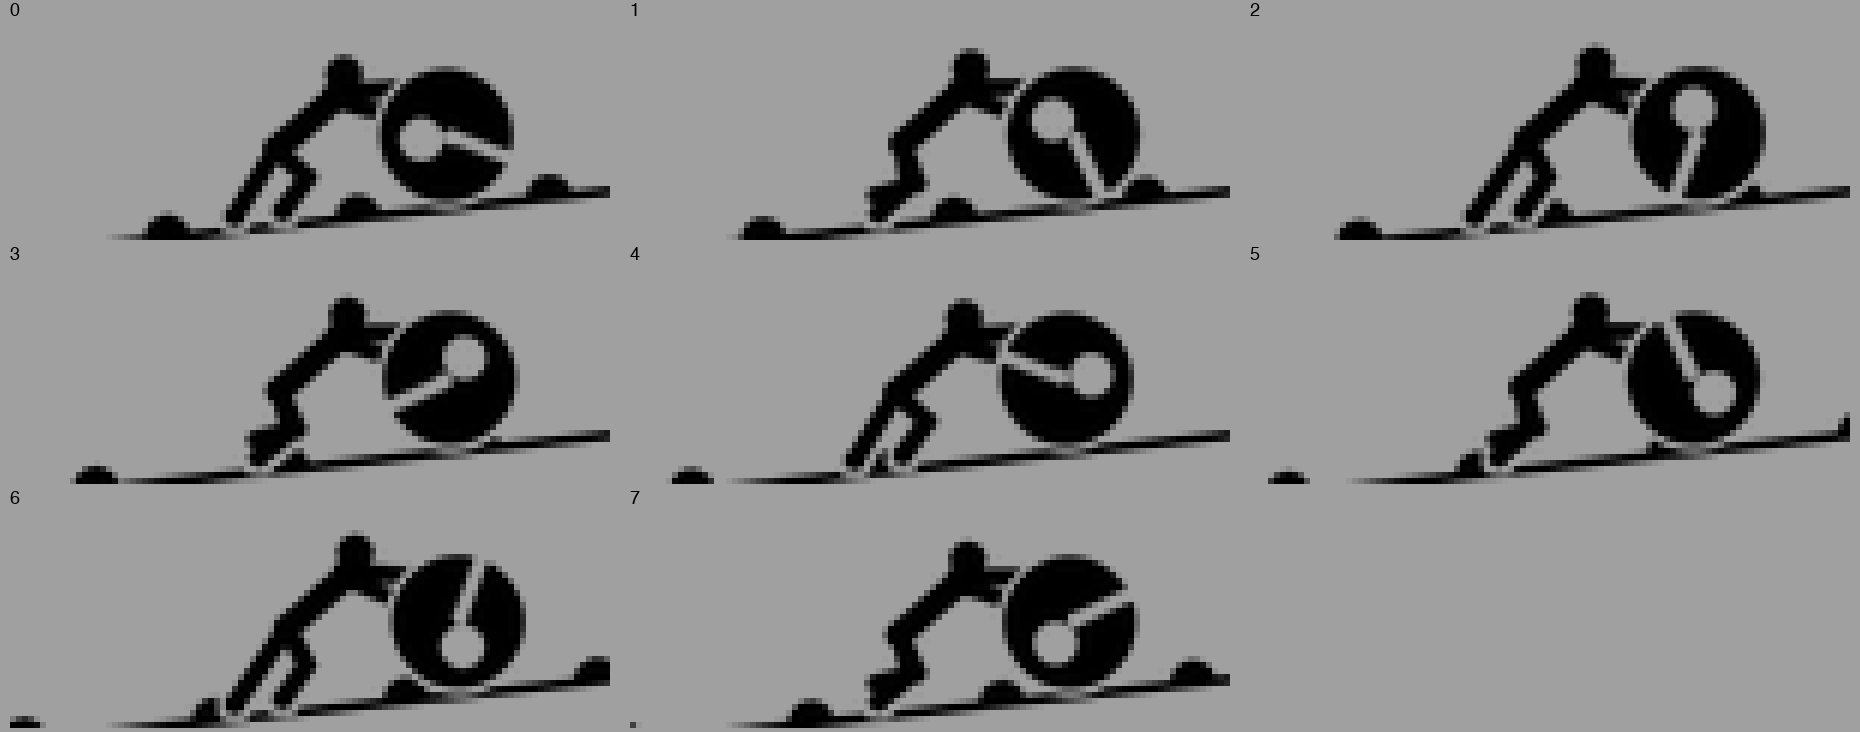
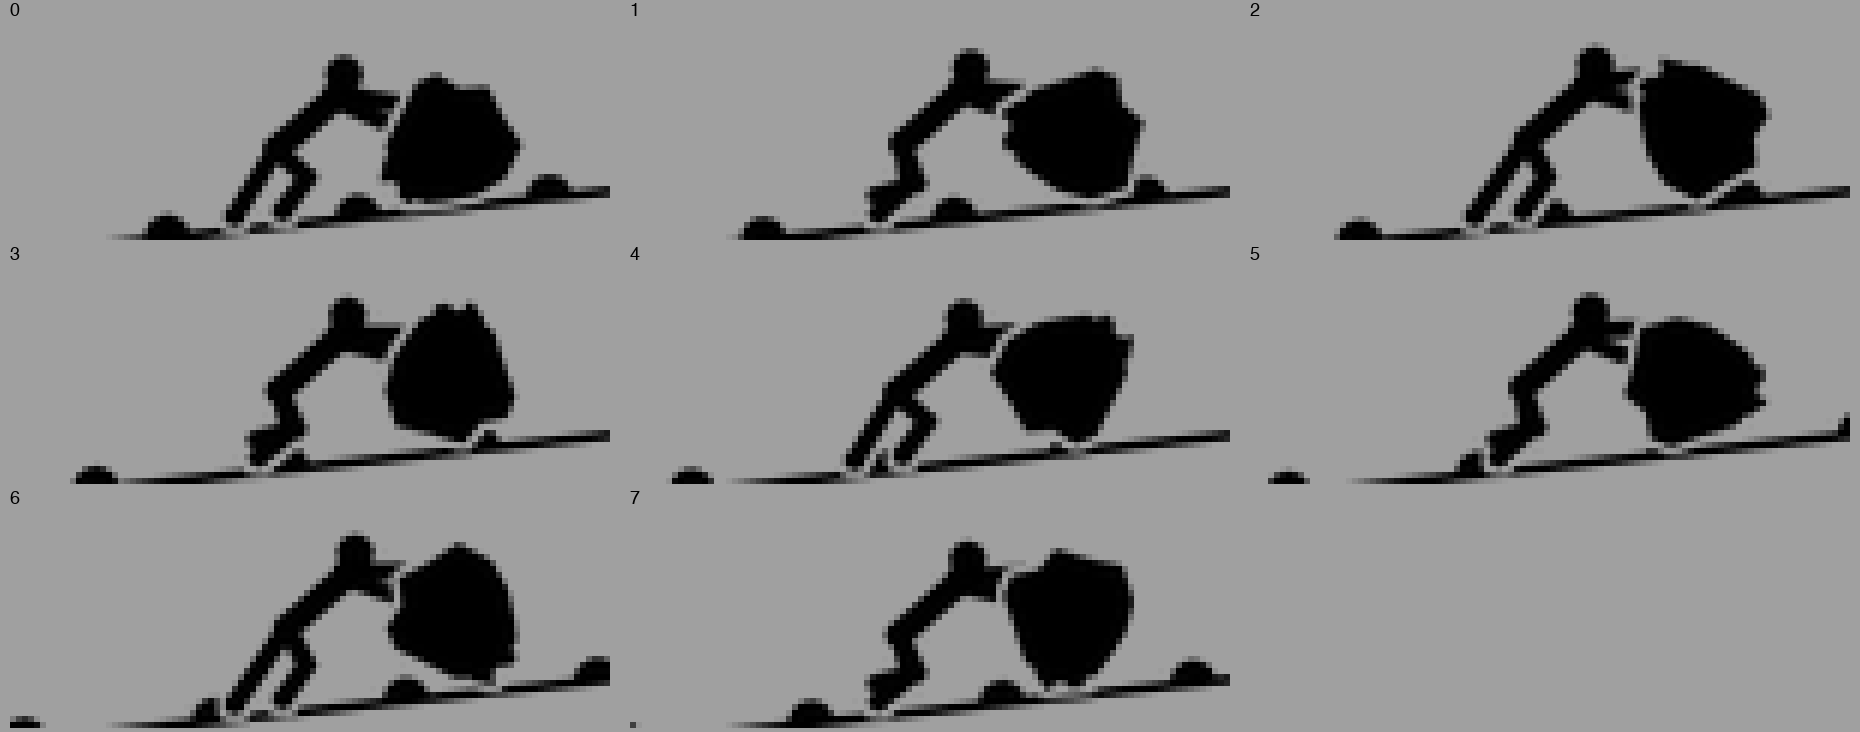
feat: Sisyphus-endless boulder as a lumpy chipped rock

diff --git a/scratchpad/sisyphus/gen.py b/scratchpad/sisyphus/gen.py
@@ -324,7 +324,7 @@ def frame_circus(i, rx, fx, mode, ry):
 # ---- sisyphus-endless: bold close-up push loop, drawn to survive a ~18 pt menu bar ----
 # Everything is drawn in slope coordinates (s along the slope, n up from it) and rotated onto
 # the canvas by W(). A thin ground line scrolls down-slope GS px per frame past a few large
-# pebbles; the boulder carries one thick asymmetric crack and turns 45 deg per frame (a full
+# pebbles; the boulder is a lumpy chipped rock that turns 45 deg per frame (a full
 # turn over the loop); the man's two legs alternate every 4 frames while boulder and body
 # surge forward and slip back (ESURGE), so 8 frames = 2 strides = 2 surges = 1 boulder turn
 # = 1 pebble period.
@@ -363,97 +363,41 @@ def sis_man(d, i, sc, hip, shd, head):
             line(d, hip, knee, 3.2); line(d, knee, foot, 3.2)
     d.ellipse([P(head[0] - 3.0, head[1] - 3.0), P(head[0] + 3.0, head[1] + 3.0)], fill=255)
 
-def frame_endless(i):
-    Wd, Ht = 100 * K, 36 * K
-    sc = GS * i
-    sg = ESURGE[i % 4]
-    cxy = W(sg, ER + 0.75 + 0.4)   # boulder centre: just above the line, surges with the push
-    rh = ER + EGAP
-    # ground: thin line + large pebbles scrolling left (down-slope)
-    g = Image.new("L", (Wd, Ht), 0)
-    gd = ImageDraw.Draw(g)
-    gd.polygon([P(*W(-200, -0.75)), P(*W(200, -0.75)), P(*W(200, 0.75)), P(*W(-200, 0.75))], fill=255)
-    for k in range(-4, 5):
-        c = k * EPER + EPER * 0.5 - sc
-        gd.polygon([P(*W(c + EPEB * math.cos(t), EPEB * math.sin(t))) for t in [math.pi * j / 24 for j in range(25)]], fill=255)
-    # man: hip follows the surge (feet stay planted on the scrolling ground), body bobs with it
-    hn = 13.4 + 0.7 * (sg - 1.0)
-    hip = W(EHS + sg, hn)
-    ta = math.radians(55)               # strong forward lean from vertical
-    ss, sn = EHS + sg + 13.0 * math.sin(ta), hn + 13.0 * math.cos(ta)   # shoulder (slope frame)
-    shd = W(ss, sn)
-    head = W(ss + 2.0, sn + 3.8)
-    mm = Image.new("L", (Wd, Ht), 0)
-    md = ImageDraw.Draw(mm)
-    sis_man(md, i, sc, hip, shd, head)
-    # arms: two straight thick lines from the shoulder to the boulder's left flank
-    for al, (da, dn) in ((20, (-1.0, -1.6)), (45, (-0.2, -0.2))):
-        a = math.radians(al)
-        tgt = (cxy[0] - ER * math.cos(a), cxy[1] - ER * math.sin(a))
-        line(md, W(ss + da, sn + dn), tgt, 3.0)
-    halo = Image.new("L", (W, H), 0)
-    ImageDraw.Draw(halo).ellipse([P(rx - h, ry - h), P(rx + h, ry + h)], fill=255)
-    mm.paste(0, mask=halo)
-    bl = Image.new("L", (W, H), 0)
-    bd = ImageDraw.Draw(bl)
-    bd.ellipse([P(rx - R, ry - R), P(rx + R, ry + R)], fill=255)
-    bl.paste(0, mask=mm.filter(ImageFilter.MaxFilter(11)))
-    ang = 0.6 - math.radians(75) * (min(i, 17) - 11) if i >= 11 else rx / R + 0.6
-    nx, ny = rx + 2.5 * math.cos(ang), ry + 2.5 * math.sin(ang)
-    bd.ellipse([P(nx - .6, ny - .6), P(nx + .6, ny + .6)], fill=0)
-    m = g.copy()
-    m.paste(255, mask=mm)
-    m.paste(255, mask=bl)
-    return m
+# boulder outline: (angle deg, radius px) around the centre, clockwise on screen. Radii vary about
+# +-12% of ER; 58-88 and 182-212 are flat faces, the 262-280 pair is a chipped corner.
+ROCK = [(0, 12.4), (30, 11.0), (60, 9.6), (92, 9.4), (122, 11.8), (152, 12.6), (184, 10.0),
+        (214, 9.2), (244, 11.6), (262, 12.0), (282, 9.6), (304, 11.8), (332, 10.4)]
+# rim chips on one side: (angle deg, radius of the centre, chip radius px); sizes ~1.6 / 2.6 / 3.2 px across
+ECHIPS = [(142, 12.3, 1.6), (172, 10.9, 0.8), (116, 11.6, 1.3)]
 
-# ---- sisyphus-endless: bold close-up push loop, drawn to survive a ~18 pt menu bar ----
-# Everything is drawn in slope coordinates (s along the slope, n up from it) and rotated onto
-# the canvas by W(). A thin ground line scrolls down-slope GS px per frame past a few large
-# pebbles; the boulder carries one thick asymmetric crack and turns 45 deg per frame (a full
-# turn over the loop); the man's two legs alternate every 4 frames while boulder and body
-# surge forward and slip back (ESURGE), so 8 frames = 2 strides = 2 surges = 1 boulder turn
-# = 1 pebble period.
-ENF = 8
-ER = 11.0                          # boulder radius (diameter 22)
-ETH = math.radians(6)              # slope angle
-EO = (74.0, 30.6)                  # canvas point of the slope line under the boulder centre
-GS = 4.0                           # ground scroll per frame
-EPER = ENF * GS                    # pebble period (= total scroll over the loop)
-EGAP = 1.2                         # transparent gap kept between man, boulder and ground
-EROT = 45                          # boulder turn per frame (deg, clockwise)
-ESURGE = (0.0, 1.2, 2.0, 0.6)      # boulder / upper-body surge along the slope, per frame mod 4
-EPEB = 3.8                         # pebble radius (half-disc standing on the line)
-EHS = -28.5                        # unsurged hip position along the slope
-LEG = 7.0                          # thigh = shin length
-ESTANCE = (0.0, -4.0, -8.0)        # planted-foot offset from the unsurged hip (back leg ends straight)
+def rock_pt(i, a, r):
+    t = math.radians(EROT * i + a)
+    return (r * math.cos(t), r * math.sin(t))
 
-def W(s, n):
-    return (EO[0] + s * math.cos(ETH) - n * math.sin(ETH), EO[1] - s * math.sin(ETH) - n * math.cos(ETH))
-
-def sis_man(d, i, sc, hip, shd, head):
-    # silhouette: thick torso, two thick legs (back one straight, front one bent), round head
-    line(d, hip, shd, 4.4)
-    for ph in (0, 2):
-        u = (i + ph) % 4
-        if u < 3:
-            rel, lift = ESTANCE[u], 0.0
-        else:   # swing: foot passes from the back position to the front, lifted
-            rel, lift = (ESTANCE[2] + ESTANCE[0]) / 2, 3.0
-        fs = EHS + rel
-        foot = W(fs, 2.4 + lift)
-        if u == 2:
-            line(d, hip, foot, 3.2)   # back leg driven out straight
-        else:
-            knee = ik(hip, foot, LEG, LEG, -1)
-            line(d, hip, knee, 3.2); line(d, knee, foot, 3.2)
-    d.ellipse([P(head[0] - 3.0, head[1] - 3.0), P(head[0] + 3.0, head[1] + 3.0)], fill=255)
+def rock_reach(poly, a):
+    # distance from the centre to the outline along the arm ray, direction -(cos a, sin a) (canvas, y down)
+    best = 0.0
+    n = len(poly)
+    ux, uy = -math.cos(a), -math.sin(a)
+    for k in range(n):
+        (x1, y1), (x2, y2) = poly[k], poly[(k + 1) % n]
+        ex, ey = x2 - x1, y2 - y1
+        den = ux * ey - uy * ex
+        if abs(den) < 1e-9:
+            continue
+        t = (x1 * ey - y1 * ex) / den
+        u = (x1 * uy - y1 * ux) / den
+        if t > 0 and 0 <= u <= 1:
+            best = max(best, t)
+    return best
 
 def frame_endless(i):
     Wd, Ht = 100 * K, 36 * K
     sc = GS * i
     sg = ESURGE[i % 4]
-    cxy = W(sg, ER + 0.75 + 0.4)   # boulder centre: just above the line, surges with the push
-    rh = ER + EGAP
+    rock = [rock_pt(i, a, r) for a, r in ROCK]   # outline relative to the centre, canvas px
+    low = min(-dx * math.sin(ETH) - dy * math.cos(ETH) for dx, dy in rock)   # lowest point above the slope
+    cxy = W(sg, 0.75 + 0.4 - low)  # boulder centre: lowest point of the turned outline just above the line
     # ground: thin line + large pebbles scrolling left (down-slope)
     g = Image.new("L", (Wd, Ht), 0)
     gd = ImageDraw.Draw(g)
@@ -474,29 +418,21 @@ def frame_endless(i):
     # arms: two straight thick lines from the shoulder to the boulder's left flank
     for al in (20, 45):
         a = math.radians(al)
-        tgt = (cxy[0] - ER * math.cos(a), cxy[1] - ER * math.sin(a))
+        tgt = (cxy[0] - rock_reach(rock, a) * math.cos(a), cxy[1] - rock_reach(rock, a) * math.sin(a))
         line(md, (shd[0] - 0.5, shd[1] + (0.0 if al == 20 else -1.0)), tgt, 3.0)
     halo = Image.new("L", (Wd, Ht), 0)
-    ImageDraw.Draw(halo).ellipse([P(cxy[0] - rh, cxy[1] - rh), P(cxy[0] + rh, cxy[1] + rh)], fill=255)
+    ImageDraw.Draw(halo).polygon([P(cxy[0] + dx, cxy[1] + dy) for dx, dy in rock], fill=255)
+    halo = halo.filter(ImageFilter.MaxFilter(2 * int(EGAP * K) + 1))
     mm.paste(0, mask=halo)
     g.paste(0, mask=halo)
     g.paste(0, mask=mm.filter(ImageFilter.MaxFilter(2 * int(EGAP * K) + 1)))
-    # boulder: solid disc with one thick transparent crack that turns with it
+    # boulder: lumpy rock with a few rim chips; the whole shape turns with EROT
     bl = Image.new("L", (Wd, Ht), 0)
     bd = ImageDraw.Draw(bl)
-    bd.ellipse([P(cxy[0] - ER, cxy[1] - ER), P(cxy[0] + ER, cxy[1] + ER)], fill=255)
-    base = math.radians(EROT * i + 20)
-    def pol(r, da):
-        a = base + math.radians(da)
-        return (cxy[0] + r * math.cos(a), cxy[1] + r * math.sin(a))
-    def cut(a, b, w):
-        bd.line([P(*a), P(*b)], fill=0, width=int(w * K))
-        for q in (a, b):
-            bd.ellipse([P(q[0] - w / 2, q[1] - w / 2), P(q[0] + w / 2, q[1] + w / 2)], fill=0)
-    # one bold asymmetric mark: a transparent hole off-centre joined to the rim by a thick crack
-    hx, hy = pol(4.2, 150)
-    bd.ellipse([P(hx - 3.6, hy - 3.6), P(hx + 3.6, hy + 3.6)], fill=0)
-    cut(pol(ER + 1.5, 0), pol(1.0, 0), 2.6)
+    bd.polygon([P(cxy[0] + dx, cxy[1] + dy) for dx, dy in rock], fill=255)
+    for a, r, cr in ECHIPS:
+        cx, cy = rock_pt(i, a, r)
+        bd.ellipse([P(cxy[0] + cx - cr, cxy[1] + cy - cr), P(cxy[0] + cx + cr, cxy[1] + cy + cr)], fill=0)
     m = g.copy()
     m.paste(255, mask=mm)
     m.paste(255, mask=bl)

diff --git a/README.md b/README.md
@@ -143,9 +143,9 @@ changes:
 ![Sisyphus-endless preview](sisyphus-endless-preview.png)
 
 A close-up of Sisyphus pushing a bold boulder up a gentle slope without ever
-reaching the top. The boulder is a solid disc with one big keyhole-shaped crack
-that turns 45 degrees per frame, so the rolling is easy to see even at menu-bar
-size. The ground is a single thin line with a few large pebbles that scroll
+reaching the top. The boulder is a lumpy rock with flat faces, a chipped corner and a
+few small chips along one side; it turns 45 degrees per frame, so the rolling is
+easy to see even at menu-bar size. The ground is a single thin line with a few large pebbles that scroll
 past, and man, boulder and ground are always separated by a clear gap. He
 pushes in surges: the boulder jumps forward about 2 px as he drives and settles
 back a little, and his body bobs with it. The faster your CPU works, the faster
